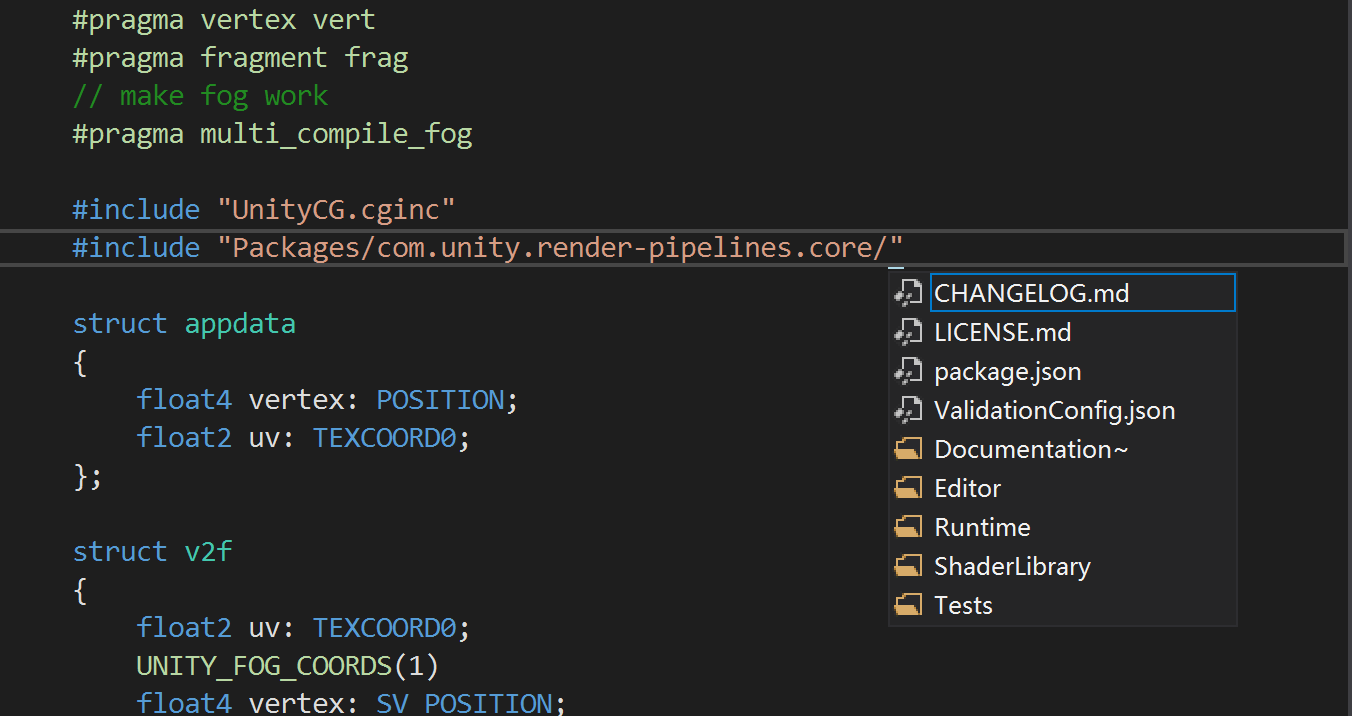
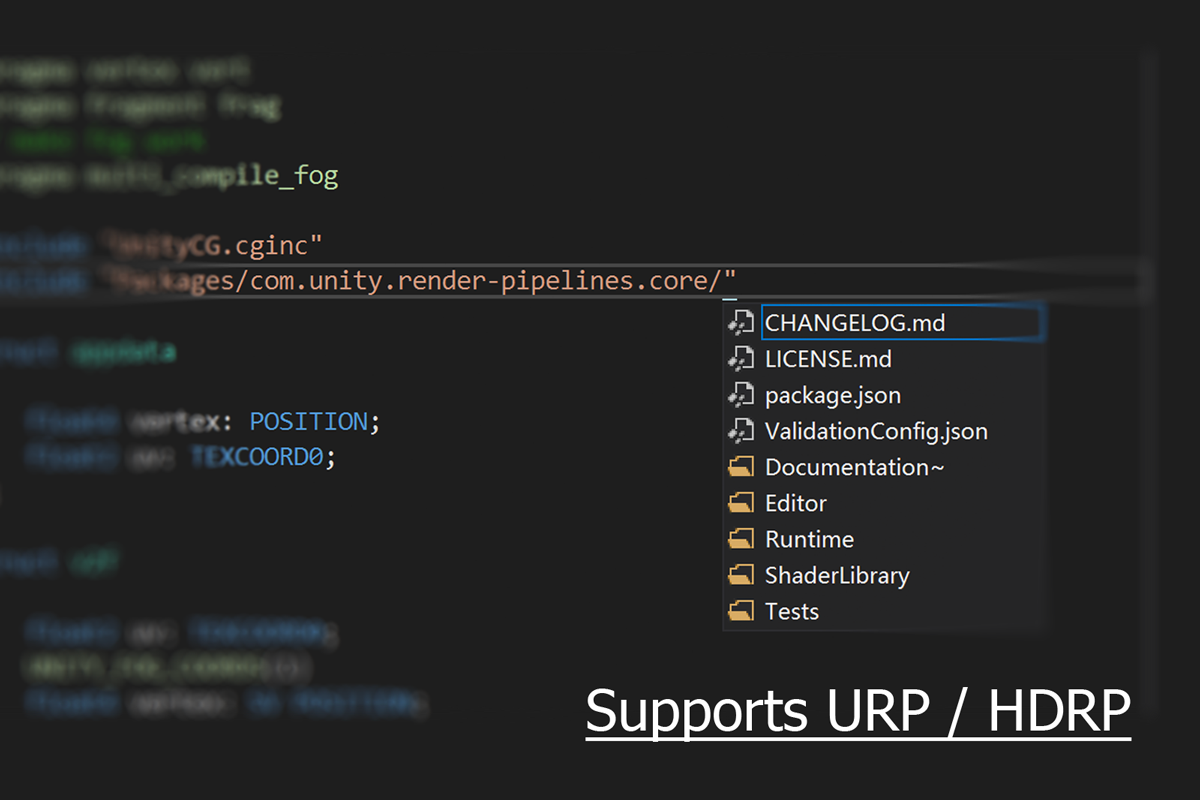
update images

diff --git a/README.md b/README.md
@@ -10,7 +10,7 @@ ShaderlabVS Pro is a Visual Studio plugin for Unity shaderlab programming. It is
 <a href='https://mianbaoduo.com/o/bread/Zpubmpg=' target='_blank'><strong>Purchase On MianBaoDuo</strong></a>
 </p>
 
-![](http://www.amlovey.com/shaderlabvs/assets/Overview.png)
+![](./assets/Main.png)
 
 <div style='position:relative;width:100%;height:0px;padding-bottom:62.52%'>
 <iframe style="position: absolute;left:0;top:0;width:100%;height:100%" src="https://www.youtube.com/embed/EGK144QWbYo" frameborder="0" allowfullscreen></iframe>
@@ -32,19 +32,19 @@ ShaderlabVS Pro is a Visual Studio plugin for Unity shaderlab programming. It is
 
 ### Syntax Highlighting
 
-![](http://www.amlovey.com/shaderlabvs/assets/DarkTheme.png)
+![](./assets/Syntax-Hightlighting.png)
 
-### Code Completion and Basic Intellisense
+### Code Completion
 
-![](http://www.amlovey.com/shaderlabvs/assets/MemeberIntelisense.png)
+![](./assets/Code-Completion.png)
 
 ### Hover Information
 
-![](http://www.amlovey.com/shaderlabvs/assets/HoverInformation.png)
+![](./assets/HoverInformation.png)
 
 ### Signature Help
 
-![](http://www.amlovey.com/shaderlabvs/assets/SignatureHelp.png)
+![](./assets/Signature-Help.png)
 
 ### Auto Format
 
@@ -186,7 +186,7 @@ Subshader
 
 ### Support SRP
 
-![](http://www.amlovey.com/shaderlabvs/assets/SRP.png)
+![](./assets/SRP.png)
 
 ### Code Snippets
 Below are the snippets:
@@ -221,6 +221,15 @@ Below are the snippets:
 | subshader    | SubShader { ... }                                     |
 | tags         | Tags { ... }                                          |
 | tagtt        | Tags with both of RenderType and Queue is Transparent |
+
+### Regions
+
+We can add region like C# to code using one of below the pairs:
+
+* `//region` and `//endregion`
+* `//#region` and `//#endregion`
+
+![](./assets/Region.png)
 
 ### Script Templates
 
